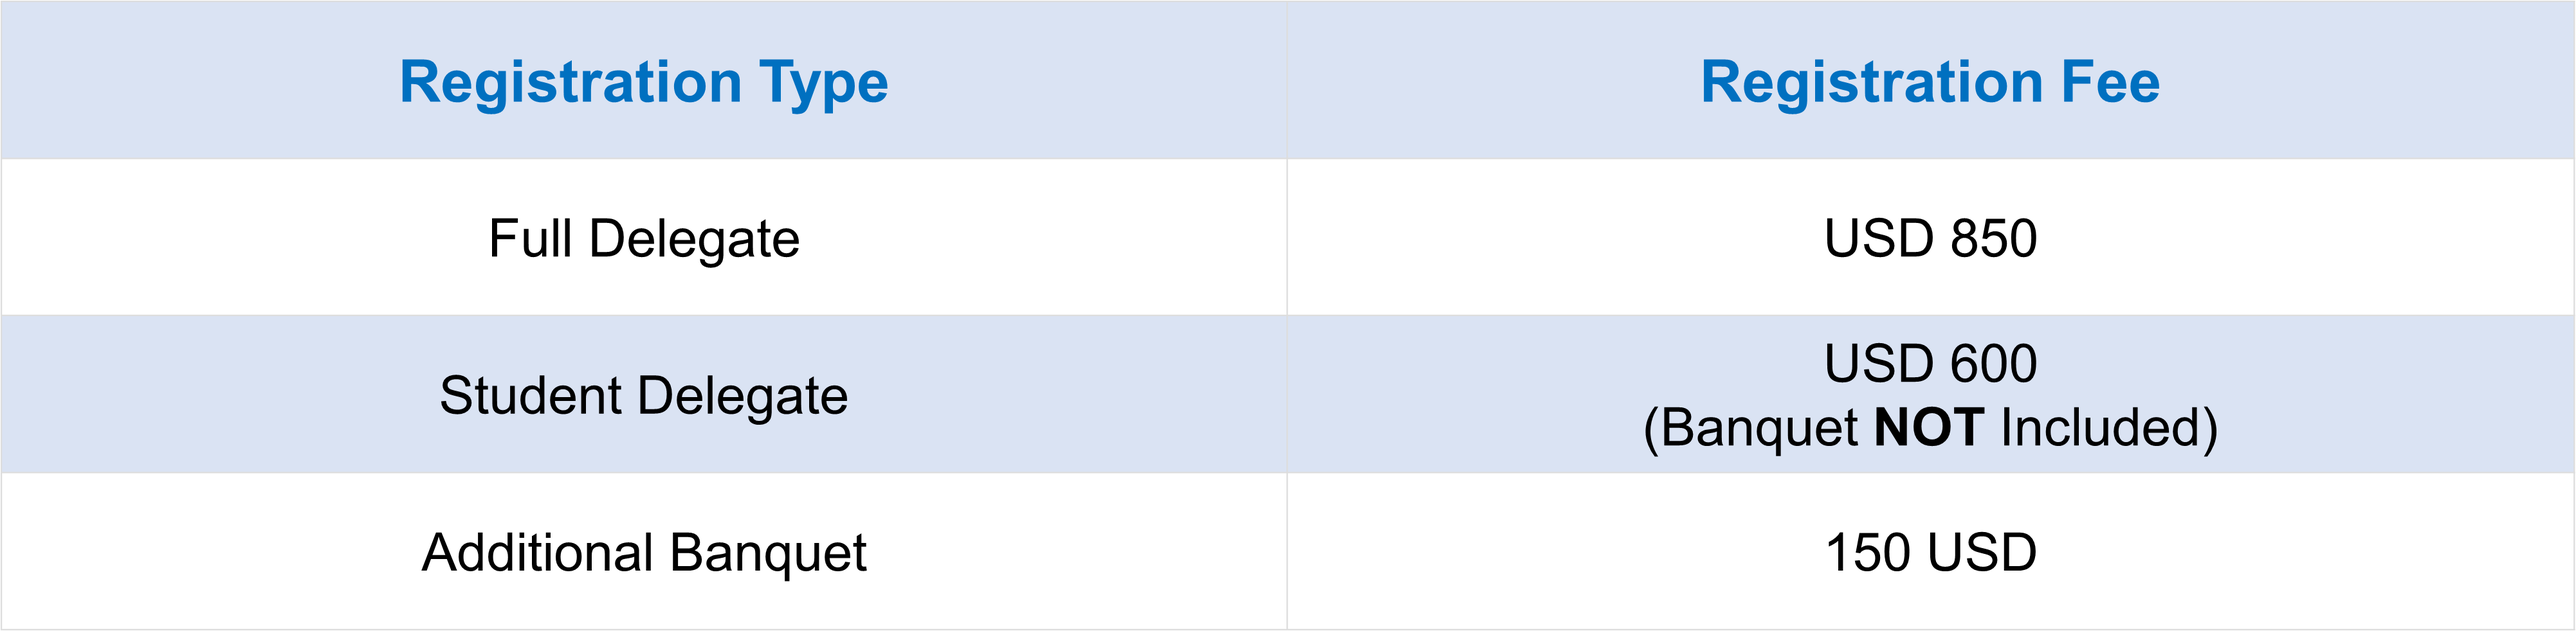
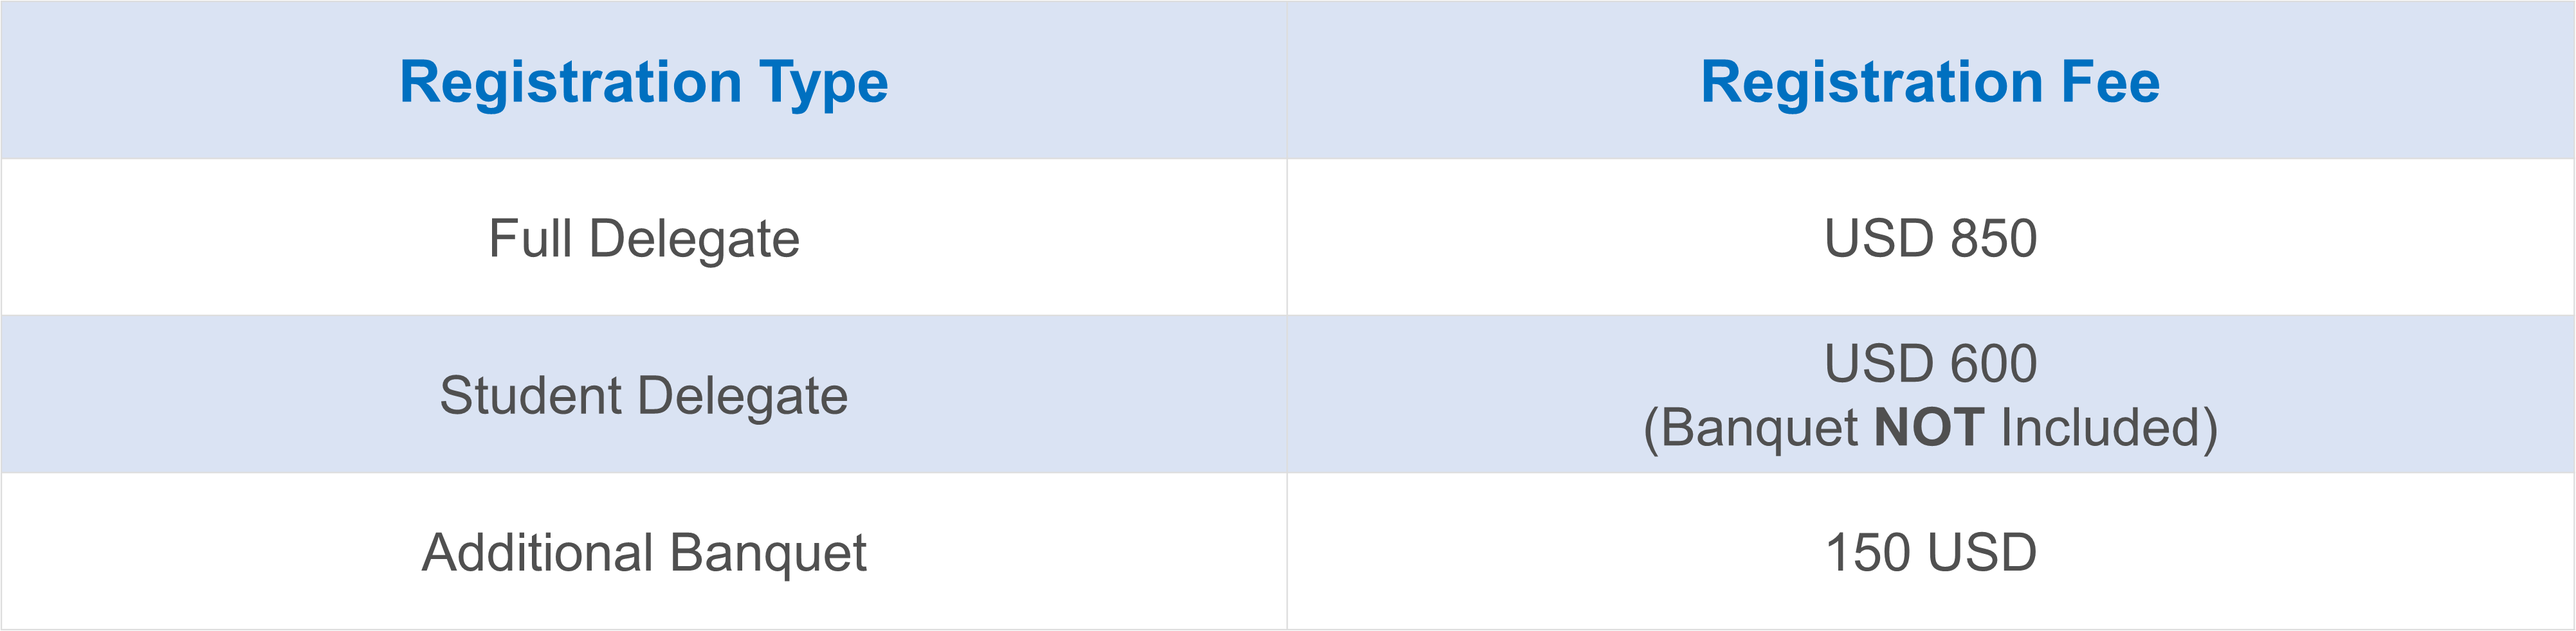
ssss

diff --git a/assets/main.css b/assets/main.css
@@ -28,7 +28,7 @@
      background-color: white;
      background-size: cover;
      background-attachment: fixed;
-     color: #505050; 
+     color: black; 
      text-align:justify;
      /* font-family:'Roboto',sans-serif; */
      font-family: Arial, sans-serif;
@@ -71,6 +71,7 @@
     /* margin-right: auto; 添加自动外边距以使表格居中 */
     /* float: center; */
     height: 60px;
+    color: black; 
     /* UNCOMMENT THIS FOR DEBUGGING THE ALIGNMENT */
     /*border: 1px solid black;*/
 }
@@ -102,7 +103,7 @@
  /* Conference Title Logo */
  .title1{color: #fafafa; text-shadow: 1px 1px 3px #c0c0c0;} 
  .title2{color: #52739e; text-shadow: 1px 1px 3px #c0c0c0;}
- .year{color: #505050; font-size:0.67em; font-weight: lighter;}
+ .year{color: black; font-size:0.67em; font-weight: lighter;}
  
  /* table.navigation{width:1000px; position: fixed;top: 0; background-color: #fff;  z-index: 999;height: 60px;} */
 
@@ -111,6 +112,7 @@
     /* margin-left: auto; 添加自动外边距以使表格居中 */
     /* margin-right: auto; 添加自动外边距以使表格居中 */
     /* float: center; */
+    
     position: fixed;
     top: 0;
     background-color: #fff;
@@ -324,7 +326,7 @@
         background-color: #fafafa;
         background-size: cover;
         background-attachment: fixed;
-        color: #505050; 
+        color: black; 
         text-align:justify;
         /* font-family:'Roboto',sans-serif; */
         font-family:Arial, sans-serif;

diff --git a/index.html b/index.html
@@ -184,11 +184,11 @@
     <h2>Malaysia VISA Application</h2>
 
         <a href="https://www.cna.com.tw/news/acn/202311260205.aspx">
-            <img src="https://www.cmmm2024.com/assets/visa-free.png" alt="visa-free"  style="width: 100%; height: auto;">
+            <img src="https://www.cmmm2024.com/assets/visa-free.png" alt="visa-free"  style="width: 80%; height: auto;">
         </a>
         <br> <br> 
         <a href="https://malaysiavisa.imi.gov.my/evisa/evisa.jsp" >
-            <img src="https://www.cmmm2024.com/assets/visa-app.png" alt="visa-app"  style="width: 100%; height: auto;">
+            <img src="https://www.cmmm2024.com/assets/visa-app.png" alt="visa-app"  style="width: 80%; height: auto;">
         </a>
         <br><br>
 
